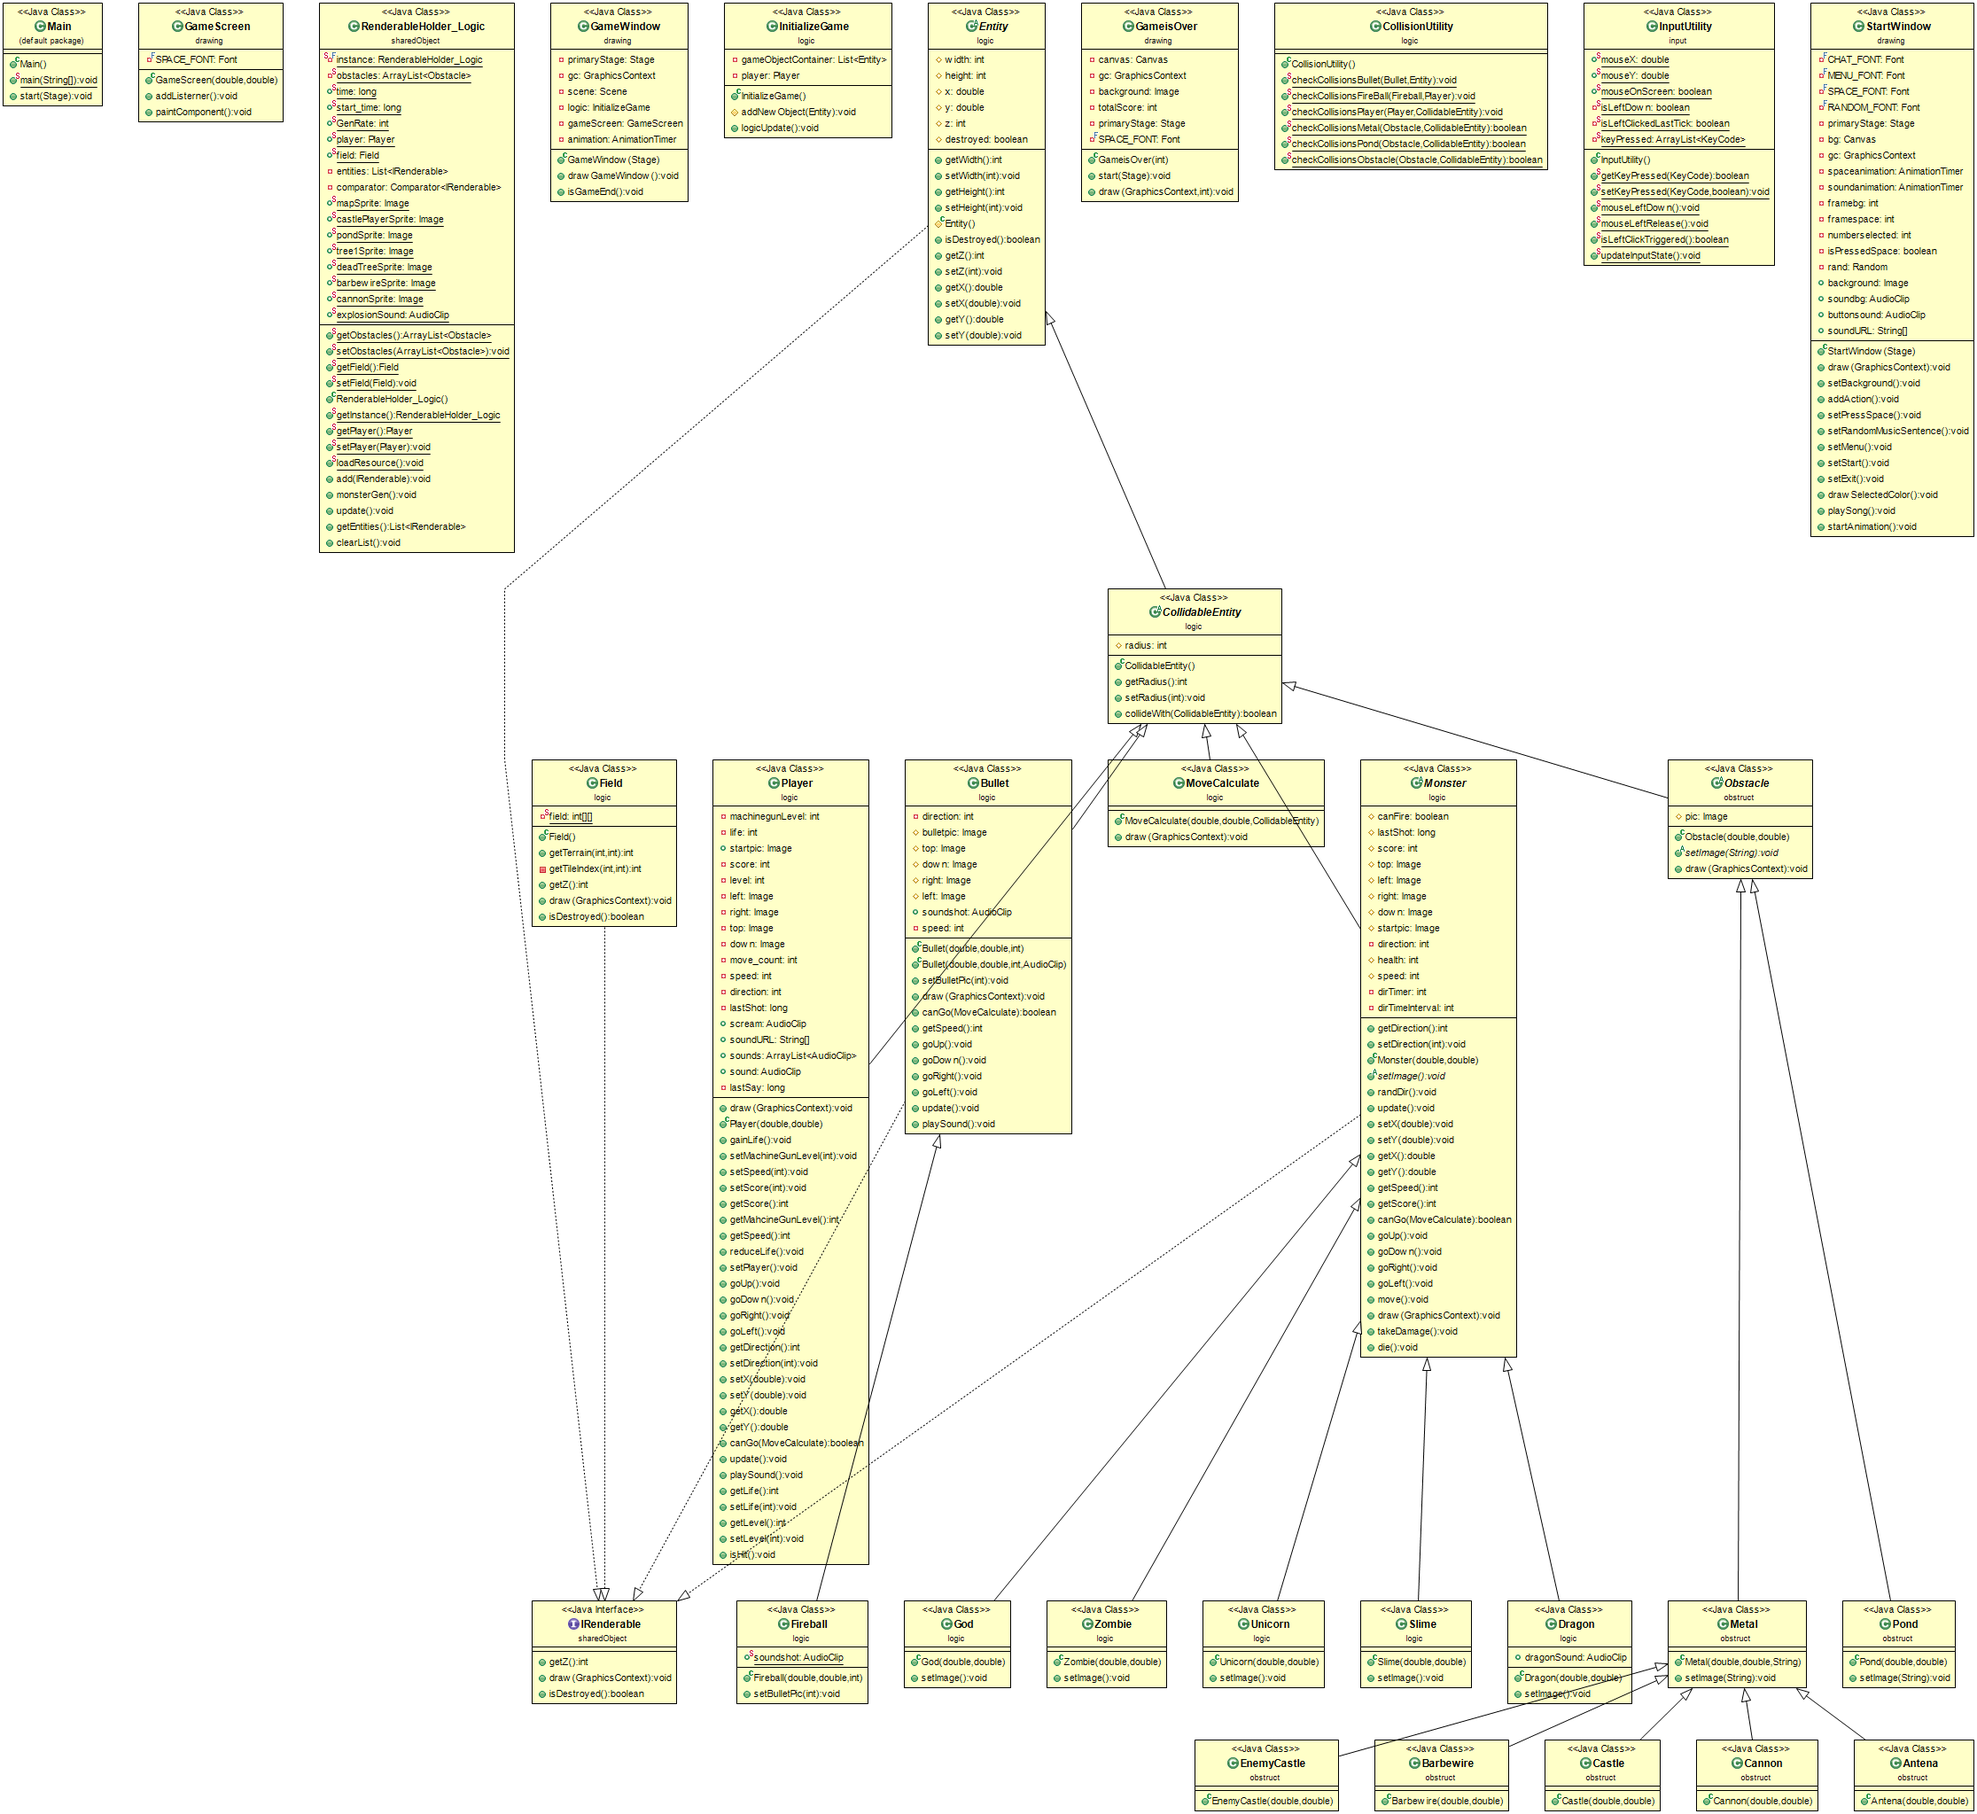
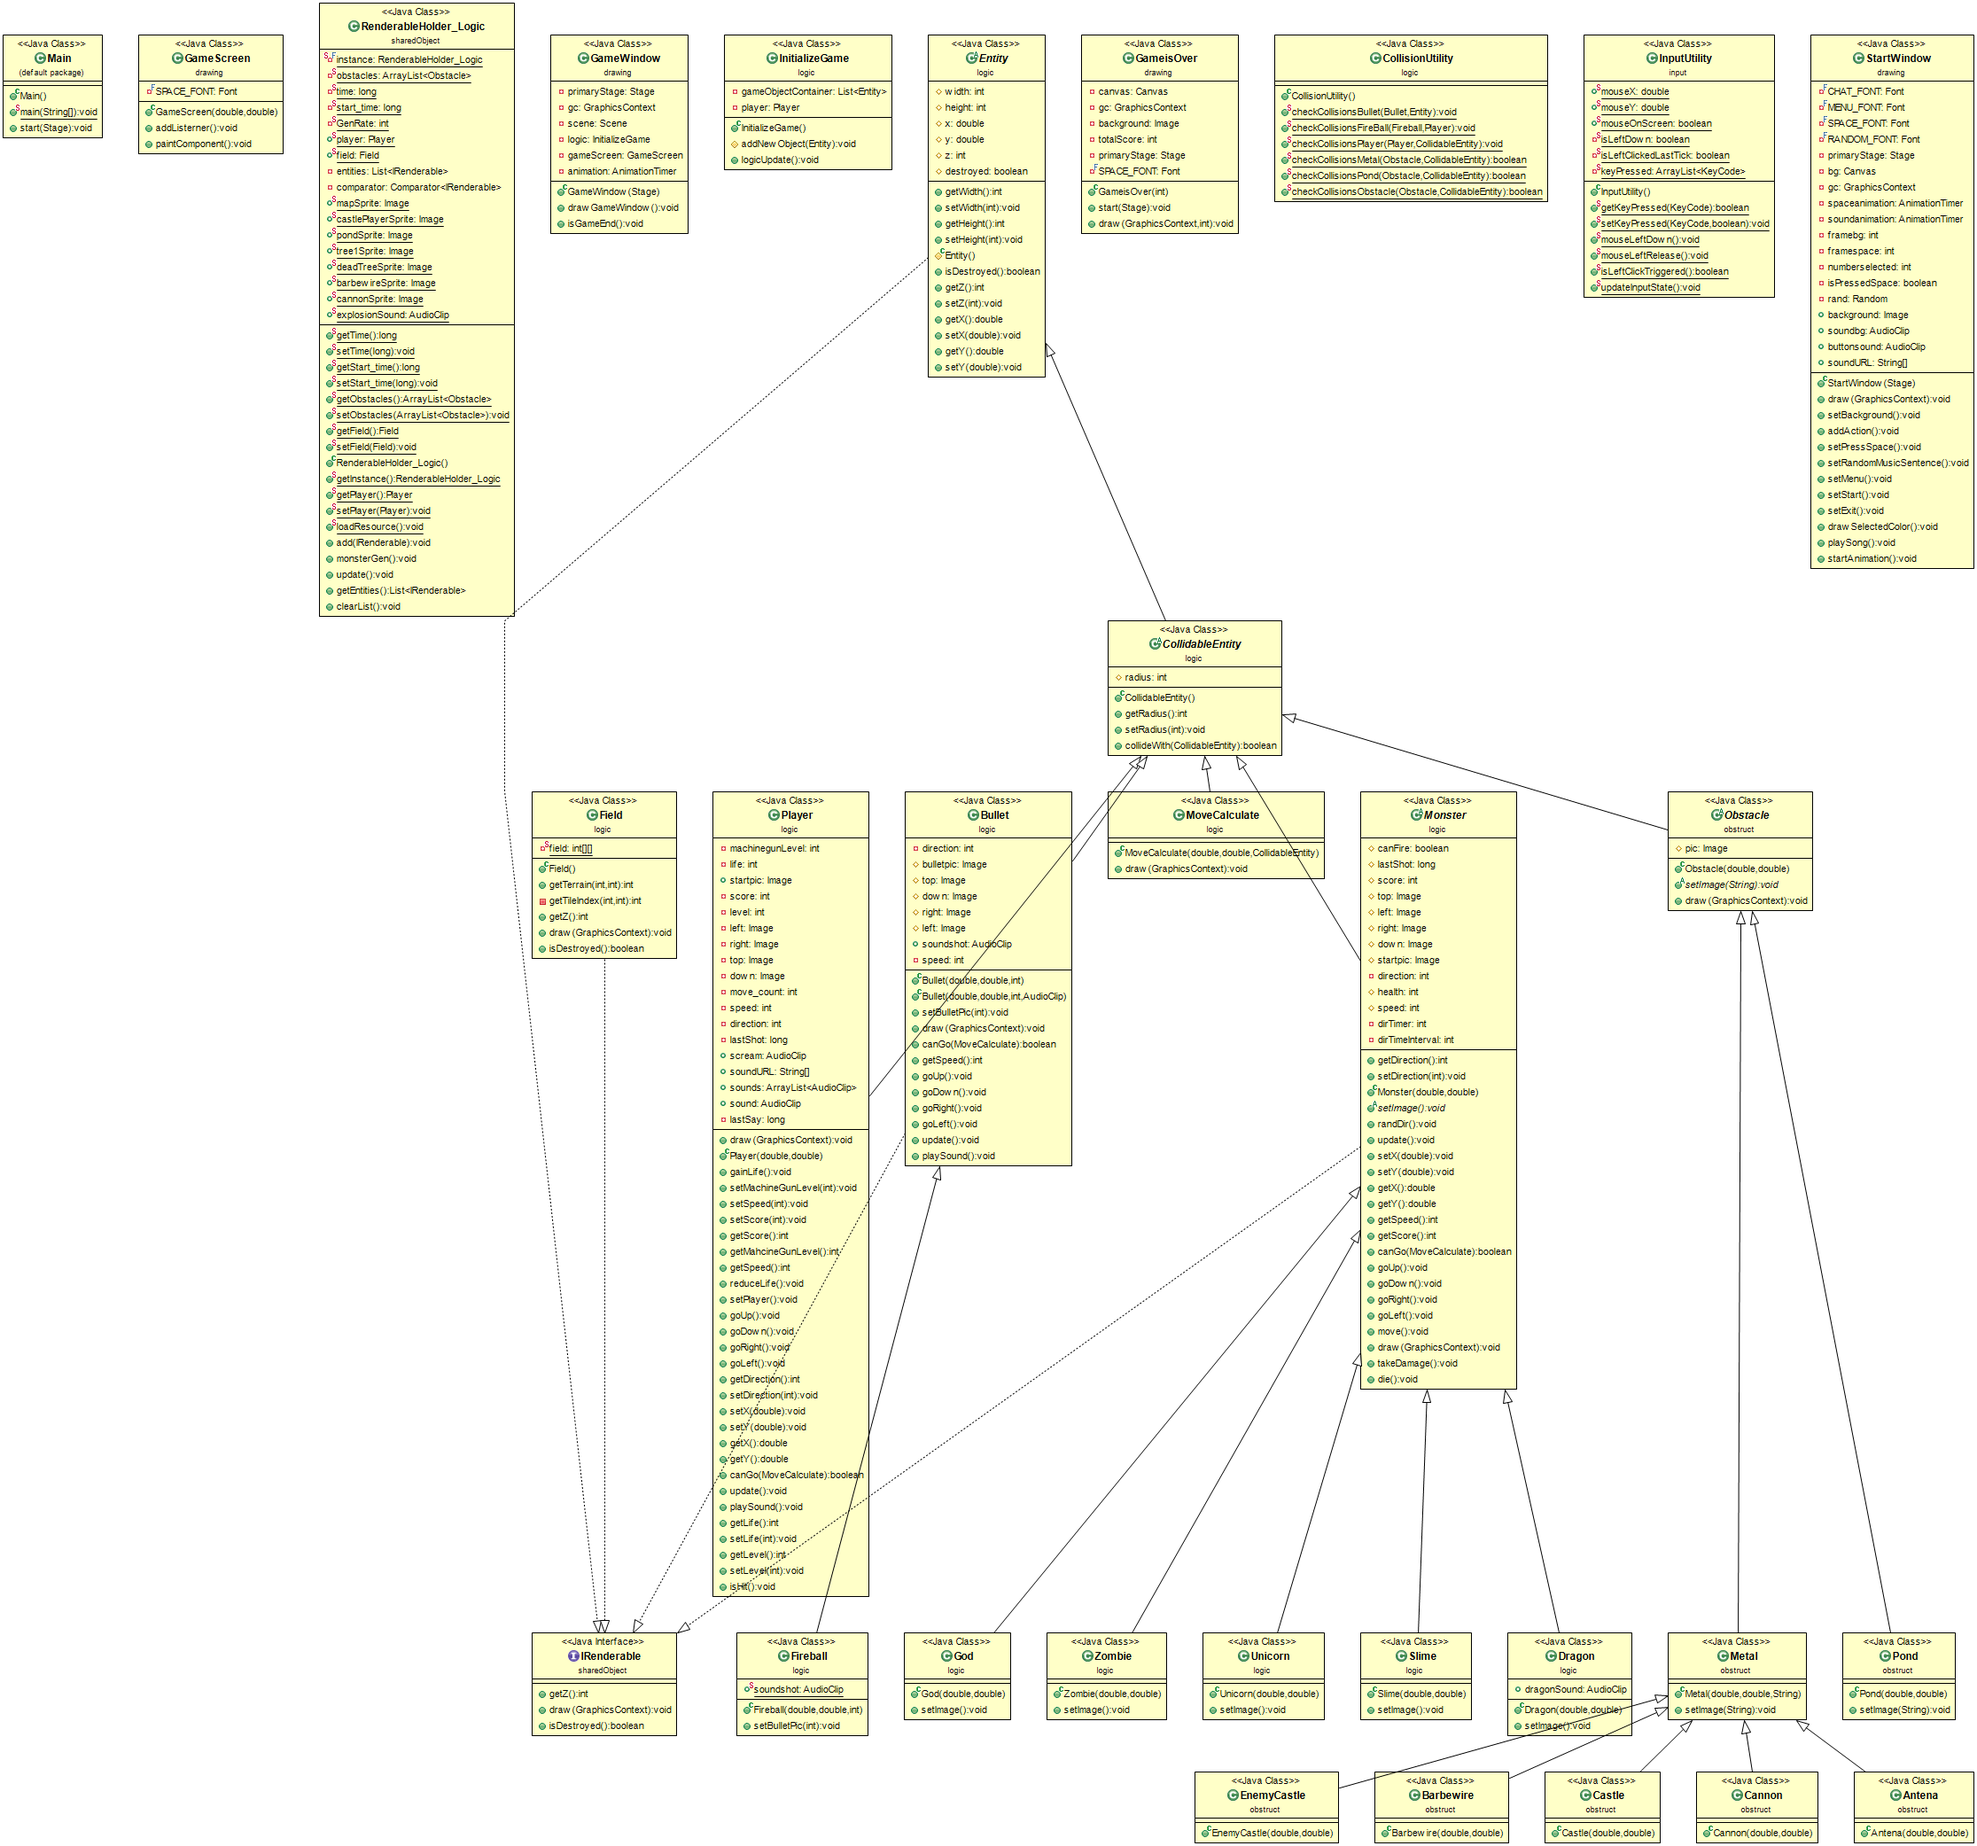
almost done

diff --git a/TheLegendSlayerFX/src/sharedObject/RenderableHolder_Logic.java b/TheLegendSlayerFX/src/sharedObject/RenderableHolder_Logic.java
@@ -24,13 +24,13 @@ import logic.Entity;
 public class RenderableHolder_Logic {
 	private static final RenderableHolder_Logic instance = new RenderableHolder_Logic();
 	private static ArrayList<Obstacle> obstacles;
-	public static long time = 0;
-	public static long start_time;
-	public static int GenRate;
-	public static Player player;
-	public static Field field;
+	private static long time = 0;
+	private static long start_time;
+	private static int GenRate;
 	private List<IRenderable> entities;
 	private Comparator<IRenderable> comparator;
+	public static Player player;
+	public static Field field;
 	public static Image mapSprite;
 	public static Image castlePlayerSprite;
 	public static Image pondSprite;
@@ -41,6 +41,20 @@ public class RenderableHolder_Logic {
 	public static AudioClip explosionSound;
 	static {
 		loadResource();
+	}
+	public static long getTime() {
+		return time;
+	}
+
+	public static void setTime(long time) {
+		RenderableHolder_Logic.time = time;
+	}
+	public static long getStart_time() {
+		return start_time;
+	}
+
+	public static void setStart_time(long start_time) {
+		RenderableHolder_Logic.start_time = start_time;
 	}
 
 	public static ArrayList<Obstacle> getObstacles() {

diff --git a/TheLegendSlayerFX/src/drawing/StartWindow.java b/TheLegendSlayerFX/src/drawing/StartWindow.java
@@ -114,8 +114,8 @@ public class StartWindow {
 					if (numberselected == 0) {
 						GameWindow game = new GameWindow(primaryStage);
 						game.drawGameWindow();
-						RenderableHolder_Logic.time = System.currentTimeMillis();
-						RenderableHolder_Logic.start_time = System.currentTimeMillis();
+						RenderableHolder_Logic.setTime(System.currentTimeMillis()); 
+						RenderableHolder_Logic.setStart_time(System.currentTimeMillis()); 
 						spaceanimation.stop();
 
 					}
